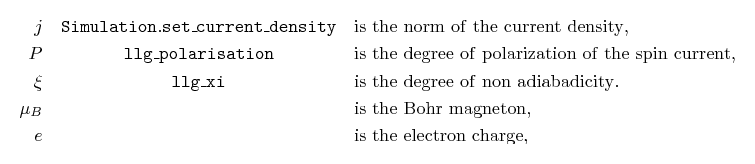
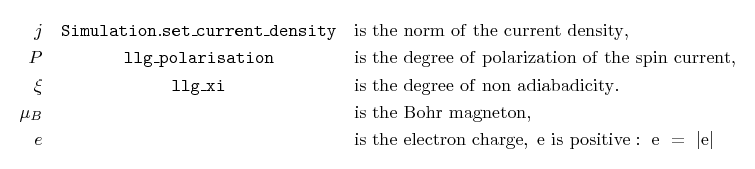
Clarifying that e is the absolute val of the electron charge. Also moving equations out of makefile.

diff --git a/nmag/latex-png.py b/nmag/latex-png.py
@@ -1,20 +1,45 @@
 #!/usr/bin/python
 
-import sys, os
-
-otheropts = ""
-if len(sys.argv) == 3:
-  _, filename, formula = sys.argv
-else:
-  try:
-    _, filename, formula, border = sys.argv
-    otheropts = "-border %s -bordercolor white" % border
-  except:
+def usage():
     print "USAGE:  python latex-png.py outfile.png \"my = eq\" [border]"
     print "EXAMPLE 1: python latex-png.py sqrt.png \"c = \sqrt{a^2 + b^2}\""
     print "EXAMPLE 2: python latex-png.py my_equation.png \"c = \sqrt{a^2 + b^2}\" 5"
+    print "EXAMPLE 2: python latex-png.py -f equation.tex my_equation.png 5"
     sys.exit(1)
 
+def get(l, i, default=None):
+  if i < len(l):
+    return l[i]
+  elif default == None:
+    usage()
+  else:
+    return default
+
+import sys, os
+
+args = sys.argv[1:]
+l = len(args)
+if l < 1:
+  usage()
+
+border = False
+if args[0] == "-f":
+  assert l >= 2, \
+    "-f must be followed by the name of the file containing the equation"
+  f = open(args[1], "r")
+  formula = f.read().strip()
+  f.close()
+
+  filename = get(args, 2)
+  border = get(args, 3, False)
+
+elif l == 2:
+  filename, formula = args
+
+elif l == 3:
+  filename, formula, border = args
+
+otheropts = "-border %s -bordercolor white" % border if border != False else ""
 tmpdir = "/tmp/latex-formula-%d" % os.getpid()
 os.mkdir(tmpdir)
 

diff --git a/nmag/example_zhangli1/quant_table1.tex b/nmag/example_zhangli1/quant_table1.tex
@@ -1,0 +1,7 @@
+\vec{M} & \mathtt{Simulation.set\_m} & \mathrm{is\ the\ magnetisation,} \nonumber\\
+\vec{H} & \mathtt{Simulation.set\_H\_ext} & \mathrm{is\ the\ effective\ magnetic\ field,} \nonumber\\
+M_{\mathrm{sat}} & \mathtt{Ms} & \mathrm{is\ the\ saturation\ magnetisation,} \nonumber\\
+\gamma & \mathtt{llg\_gamma\_G} & \mathrm{is\ the\ gyromagnetic\ ratio,} \nonumber\\
+\alpha & \mathtt{llg\_damping} & \mathrm{is\ the\ damping\ parameter,} \nonumber\\
+\hat{j} \cdot \nabla &  & \mathrm{derivative\ along\ }\hat{j}
+  \mathrm{,\ the\ direction\ of\ the\ current,}

diff --git a/nmag/example_zhangli1/quant_table2.tex b/nmag/example_zhangli1/quant_table2.tex
@@ -1,0 +1,5 @@
+j     &    \mathtt{Simulation.set\_current\_density} & \mathrm{is\ the\ norm\ of\ the\ current\ density,} \nonumber\\
+P     &    \mathtt{llg\_polarisation} & \mathrm{is\ the\ degree\ of\ polarization\ of\ the\ spin\ current,} \nonumber\\
+\xi   &    \mathtt{llg\_xi} & \mathrm{is\ the\ degree\ of\ non\ adiabadicity.} \nonumber\\
+\mu_B &  & \mathrm{is\ the\ Bohr\ magneton,} \nonumber\\
+e     &  & \mathrm{is\ the\ electron\ charge,\ e\ is\ positive:\ e\ =\ |e|} \nonumber\\

diff --git a/nmag/example_zhangli1/eq_zhangli_llg.tex b/nmag/example_zhangli1/eq_zhangli_llg.tex
@@ -1,0 +1,7 @@
+\frac{\partial \vec{M}}{\partial t} =
+  -\gamma \, \vec{M} \times \vec{H}
+  +\frac{\alpha}{M_{\mathrm{sat}}} \, \vec{M} \times \frac{\partial \vec{M}}{\partial t}
+  -\frac{v}{M_{\mathrm{sat}}^2} \, \vec{M} \times 
+   \left(\vec{M} \times \hat{j} \cdot \nabla \vec{M} \right)
+  -\frac{\xi v}{M_{\mathrm{sat}}} \, \vec{M} \times \hat{j} \cdot \nabla \vec{M}
+
